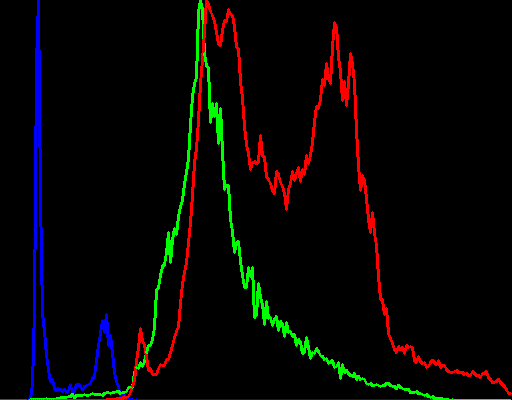
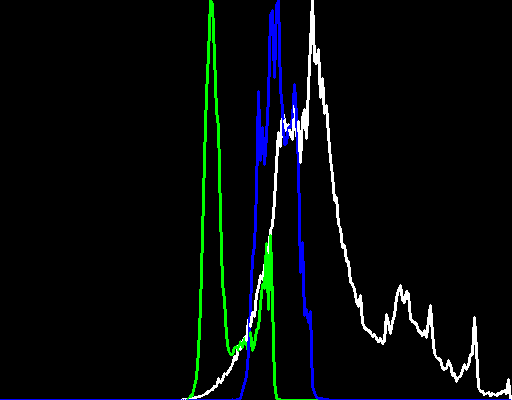
Tests Histogram Equalization

Changed region(s): [[0.3125, 0.0, 1.0, 1.0], [0.0, 0.0, 0.3438, 1.0]]

diff --git a/TreatmentSystem.cpp b/TreatmentSystem.cpp
@@ -6,7 +6,7 @@
 
 void TreatmentSystem::RunTests(std::string const& path)
 {
-	TestHistogramHSV(path);
+	TestHistogramEqualization(path);
 }
 
 
@@ -594,6 +594,117 @@ void TreatmentSystem::TestBackgroundSubtractor(std::string const& path)
 
 	cv::imshow("Original", src);
 	cv::imshow("Mask", fgMask);
+
+	cv::waitKey();
+}
+
+void TreatmentSystem::TestHistogramEqualization(std::string const& path)
+{
+	cv::Mat src = cv::imread(path);
+
+
+	cv::Mat equalizedImage;
+	cv::cvtColor(src, equalizedImage, cv::COLOR_BGR2YCrCb);
+
+	std::vector<cv::Mat> vec_channels;
+	cv::split(equalizedImage, vec_channels);
+
+	cv::equalizeHist(vec_channels[0], vec_channels[0]);
+
+	cv::merge(vec_channels, equalizedImage);
+
+	cv::cvtColor(equalizedImage, equalizedImage, cv::COLOR_YCrCb2BGR);
+
+	cv::cvtColor(equalizedImage, equalizedImage, cv::COLOR_BGR2GRAY);
+
+	cv::medianBlur(equalizedImage, equalizedImage, 7);
+
+	cv::Mat thresh;
+
+	cv::adaptiveThreshold(equalizedImage, thresh, 255, cv::ADAPTIVE_THRESH_GAUSSIAN_C, cv::THRESH_BINARY, 9, -1);
+
+	cv::medianBlur(thresh, thresh, 3);
+	cv::dilate(thresh, thresh, cv::Mat(), cv::Point(-1, -1), 4, 1, 1);
+
+	std::vector<std::vector<cv::Point>> contours;
+	cv::findContours(thresh, contours, cv::RETR_EXTERNAL, cv::CHAIN_APPROX_SIMPLE);
+
+
+	cv::Mat mask = thresh.clone();
+	//cv::drawContours(srcContours, contours, -1, cv::Scalar(255, 0, 0), 2); 
+	cv::fillPoly(mask, contours, cv::Scalar(255, 255, 255));
+
+	cv::erode(mask, mask, cv::Mat(), cv::Point(-1, -1), 40, 1, 1);
+	cv::dilate(mask, mask, cv::Mat(), cv::Point(-1, -1), 35, 1, 1);
+
+	cv::Mat cutout;
+	cv::bitwise_and(src, src, cutout, mask);
+
+	cv::cvtColor(cutout, cutout, cv::COLOR_BGR2HSV);
+
+	std::vector<cv::Mat> channels;
+	cv::split(cutout, channels);
+
+	for(int i = 0; i < channels[1].rows; i++)
+		for(int j = 0; j < channels[1].cols; j++)
+			if(channels[1].at<cv::Vec3b>(i, j) == cv::Vec3b{0, 0, 0})
+			{
+				channels[1].at<cv::Vec3b>(i, j) = cv::Vec3b{ 255, 255, 255 };
+			}
+
+	cv::Mat sat = channels[1].clone();
+
+	cv::medianBlur(sat, sat, 7);
+
+	//cv::equalizeHist(sat, sat);
+
+	cv::SimpleBlobDetector::Params params;
+	// Thresholds
+	params.minThreshold = 1.f;
+	params.maxThreshold = 102.f;
+
+	// Filter by Area
+	params.filterByArea = true;
+	params.minArea = 200.f;
+
+	// Filter by Circularity
+	params.filterByCircularity = true;
+	params.minCircularity = 0.01f;
+
+	// Filter by Convexity
+	params.filterByConvexity = true;
+	params.minConvexity = 0.65f;
+
+	// Filter by Inertia
+	params.filterByInertia = true;
+	params.minInertiaRatio = 0.1f;
+
+	// Filter by Color
+	params.filterByColor = false;
+	params.blobColor = 0;
+
+	cv::Ptr<cv::SimpleBlobDetector> detector = cv::SimpleBlobDetector::create(params);
+
+	std::vector<cv::KeyPoint> keypoints;
+	detector->detect(sat, keypoints);
+
+	std::cout << "Keypoints : " << keypoints.size() << std::endl;
+
+	cv::Mat imgKeypoints = src.clone();
+
+	for(auto keypoint : keypoints)
+	{
+		cv::Rect rec = cv::Rect(keypoint.pt.x - keypoint.size / 2, keypoint.pt.y - keypoint.size / 2, keypoint.size, keypoint.size);
+		cv::rectangle(imgKeypoints, rec, cv::Scalar(0, 0, 255), 2);
+	}
+
+	cv::imshow("Original", src);
+	cv::imshow("Equalized", equalizedImage);
+	cv::imshow("Threshold", thresh);
+	cv::imshow("Contours", mask);
+	cv::imshow("Cutout", cutout);
+	cv::imshow("Equalized Saturation", sat);
+	cv::imshow("Keypoints", imgKeypoints);
 
 	cv::waitKey();
 }

diff --git a/TreatmentSystem.h b/TreatmentSystem.h
@@ -23,5 +23,6 @@ private:
     static void TestLabDarkenIdea(std::string const& path);
     static void TestContourDetection(std::string const& path);
     static void TestBackgroundSubtractor(std::string const& path);
+    static void TestHistogramEqualization(std::string const& path);
 };
 
